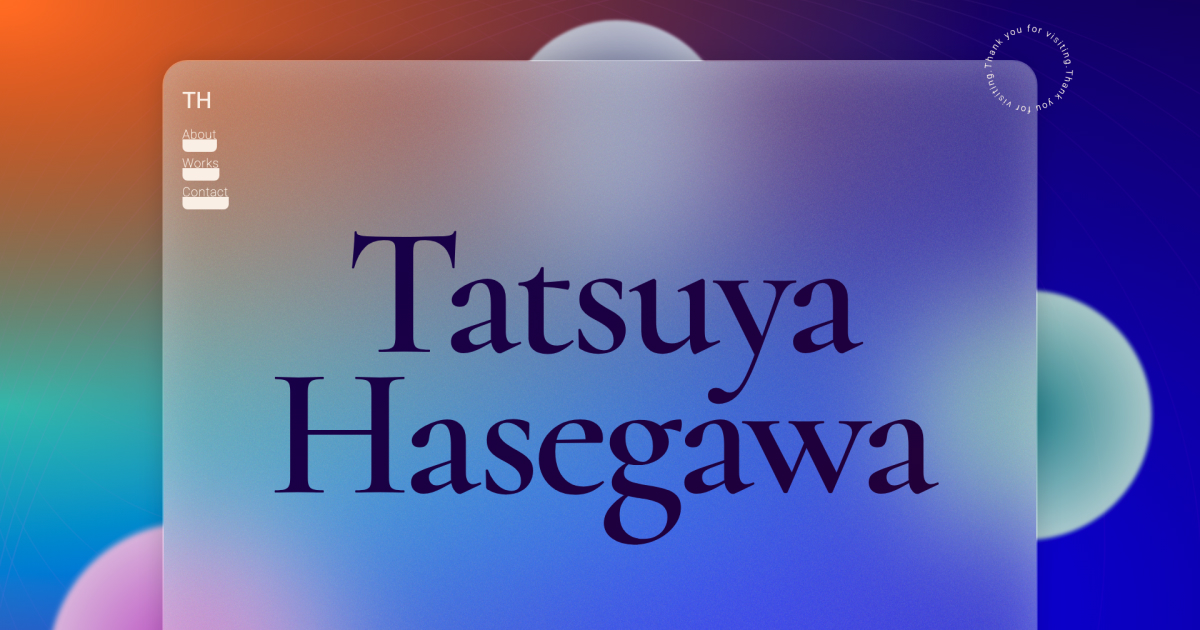
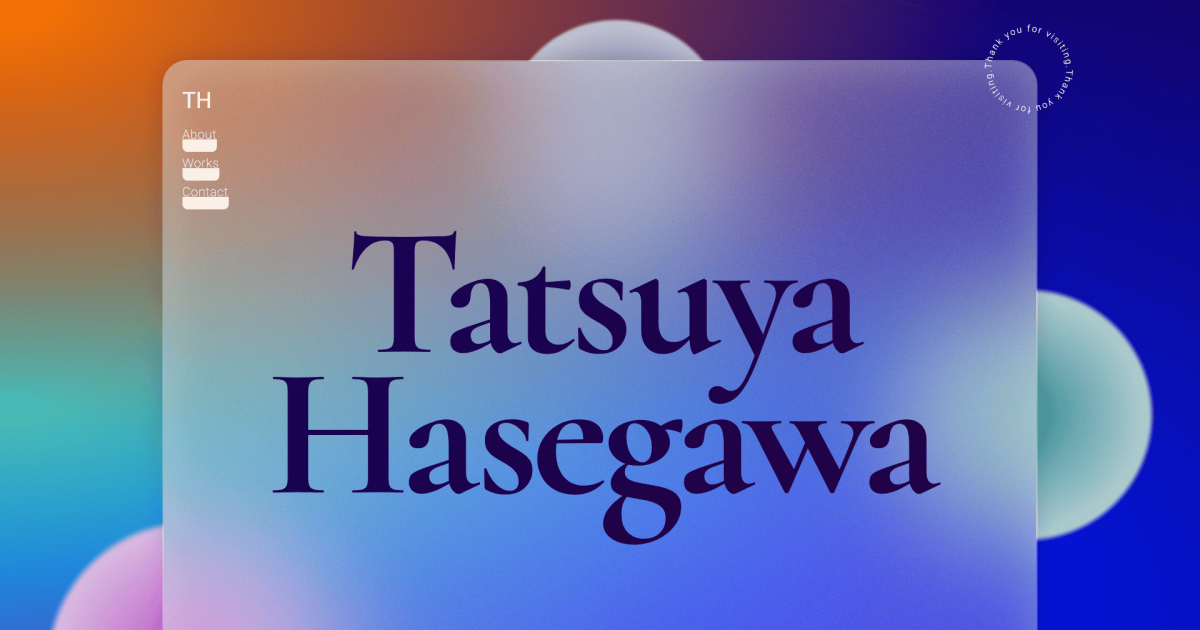
style: adjust font weights for headings

diff --git a/src/components/main/about/main.css.ts b/src/components/main/about/main.css.ts
@@ -40,7 +40,7 @@ export const nameBox = style({
 export const nameJa = style({
   position: "relative",
   fontSize: "clamp(4.0rem, 7.5vw + 2.5rem, 15.4rem)",
-  fontWeight: 600,
+  fontWeight: 700,
   color: vars.color.text,
   letterSpacing: "-0.16em",
   marginBottom: "-0.6em",
@@ -49,7 +49,7 @@ export const nameJa = style({
 export const nameEn = style({
   position: "relative",
   fontSize: "clamp(5.2rem, 8.6vw + 2.6rem, 17.6rem)",
-  fontWeight: 600,
+  fontWeight: 700,
   letterSpacing: "-0.09em",
   width: "fit-content",
   height: "1.2em",

diff --git a/src/app/fonts.ts b/src/app/fonts.ts
@@ -2,7 +2,7 @@ import { Cormorant, Noto_Serif_JP, Roboto } from "next/font/google";
 
 export const cormorant = Cormorant({
   subsets: ["latin"],
-  weight: ["500", "600", "700"],
+  weight: ["500", "700"],
   display: "swap",
   preload: true,
 });
@@ -16,7 +16,7 @@ export const roboto = Roboto({
 
 export const notoSerifJP = Noto_Serif_JP({
   subsets: ["latin"],
-  weight: ["600"],
+  weight: ["700"],
   display: "swap",
   preload: true,
 });

diff --git a/src/components/main/home/main.css.ts b/src/components/main/home/main.css.ts
@@ -9,7 +9,7 @@ export const main = style({
 
 export const name = style({
   fontSize: "clamp(7.6rem, 16.8vw + 2.4rem, 29.6rem)",
-  fontWeight: 600,
+  fontWeight: 700,
   background: "linear-gradient(135deg, #130059 0%, #26003f 100%)",
   WebkitBackgroundClip: "text",
   WebkitTextFillColor: "transparent",
